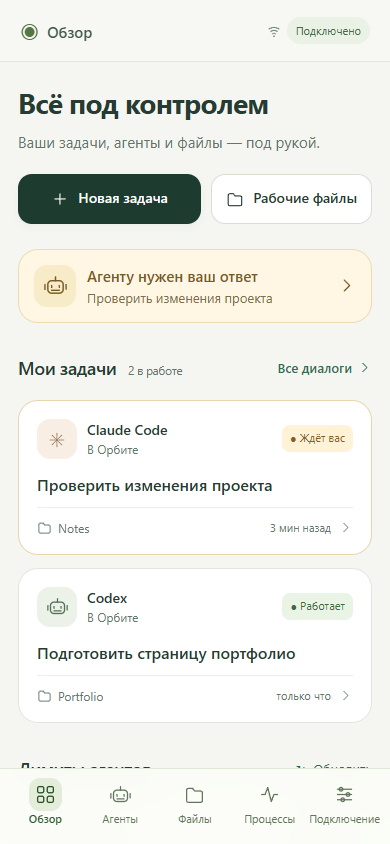
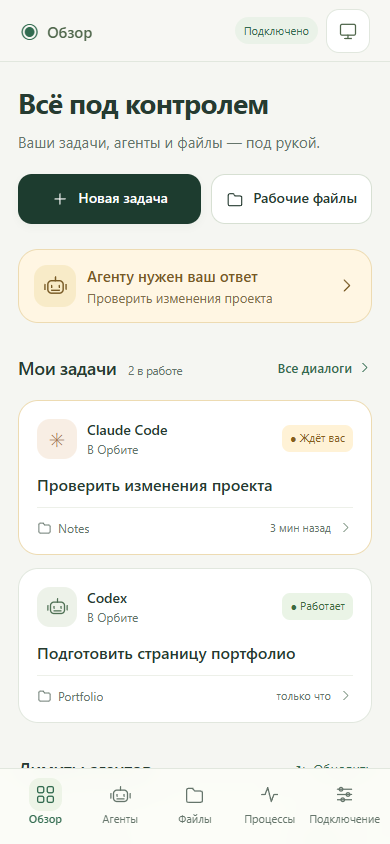
docs: document theme controls and add dark previews

Changed region(s): [[0.6154, 0.0, 0.9538, 0.0616], [0.0923, 0.9242, 0.1538, 0.955], [0.0615, 0.0308, 0.0923, 0.0616]]

diff --git a/README.md b/README.md
@@ -21,10 +21,19 @@
 
 </details>
 
+<details>
+<summary>Тёмная тема</summary>
+
+<img src="docs/images/desktop-dark.png" width="960" alt="Тёмная тема Орбиты на компьютере" />
+<img src="docs/images/mobile-dark.png" width="330" alt="Тёмная тема Орбиты на телефоне" />
+
+</details>
+
 На изображениях — демонстрационные данные, не реальные проекты или показатели аккаунта.
 
 ## Возможности
 
+- **Оформление:** системная, светлая и тёмная темы. Выбор через кнопку в верхней панели или раздел «Подключение» сохраняется в браузере этого устройства.
 - **На телефоне:** нижняя навигация, кнопки от 44 px, диалог на весь экран и черновики при переходах. Лимиты видны на главной и компактной строкой в переписке.
 - **Codex и Claude Code:** новые сессии в выбранной папке, сообщения, ответы, запросы разрешений и остановка задач из Орбиты. Для Codex доступны поток ответа и уточнения выполняемой задачи.
 - **История Codex / VS Code:** просмотр существующих диалогов и продолжение отдельной веткой. Сервис не перехватывает канал управления открытого расширения.

diff --git a/docs/setup.md b/docs/setup.md
@@ -41,6 +41,10 @@ npm start
 
 Для Claude запустите `Войти в Claude.cmd`, завершите вход и обновите статус в панели. Учётные данные не вводятся в мобильный интерфейс.
 
+## Светлая и тёмная темы
+
+Нажмите кнопку оформления в верхней панели или откройте **Подключение → Оформление**. Выберите **Системная**, **Светлая** или **Тёмная**. Системная тема следует настройке устройства; явный выбор сохраняется в его браузере. Смена темы не закрывает диалог и не очищает черновик.
+
 ## Если устройство не подключается
 
 - Убедитесь, что ПК включён, сервис запущен и адрес соответствует текущему Wi-Fi IP.

diff --git a/CHANGELOG.md b/CHANGELOG.md
@@ -2,6 +2,13 @@
 
 ## Unreleased
 
+### Appearance
+
+- System, light and dark themes with a header control and a settings selector.
+- Device-local preference applied before styles load, live system changes and tab synchronization.
+- Shared semantic colors for chat, files, quotas, forms, dialogs and notifications.
+- Theme startup remains usable when browser storage is blocked.
+
 ### Mobile interface
 
 - Calm colors, readable type, larger touch controls and task-first home screen.
